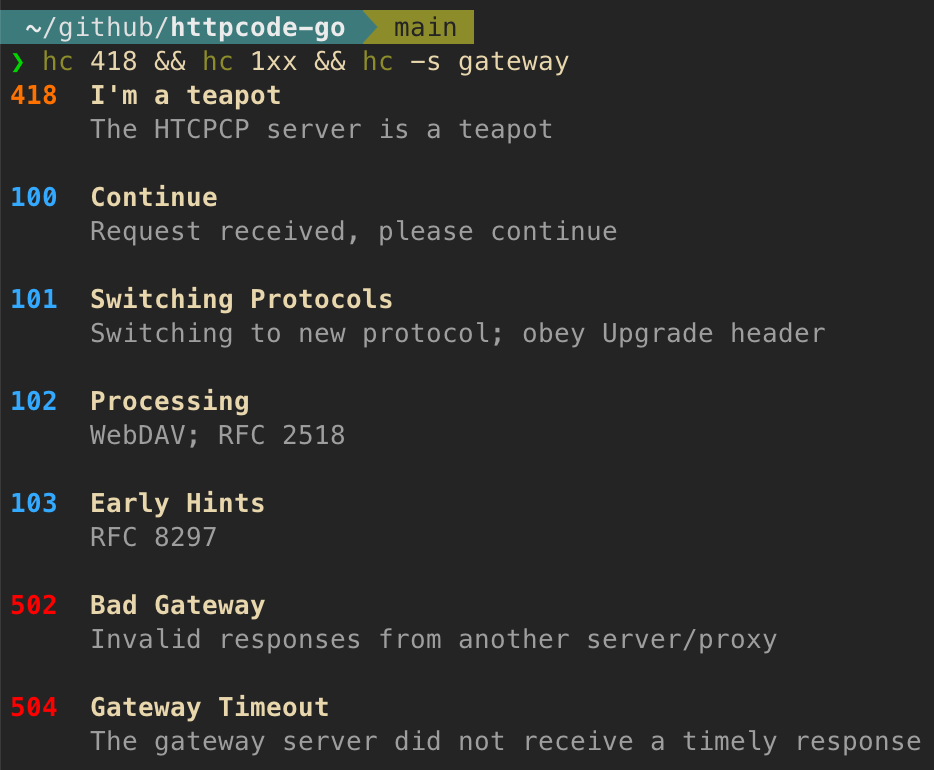
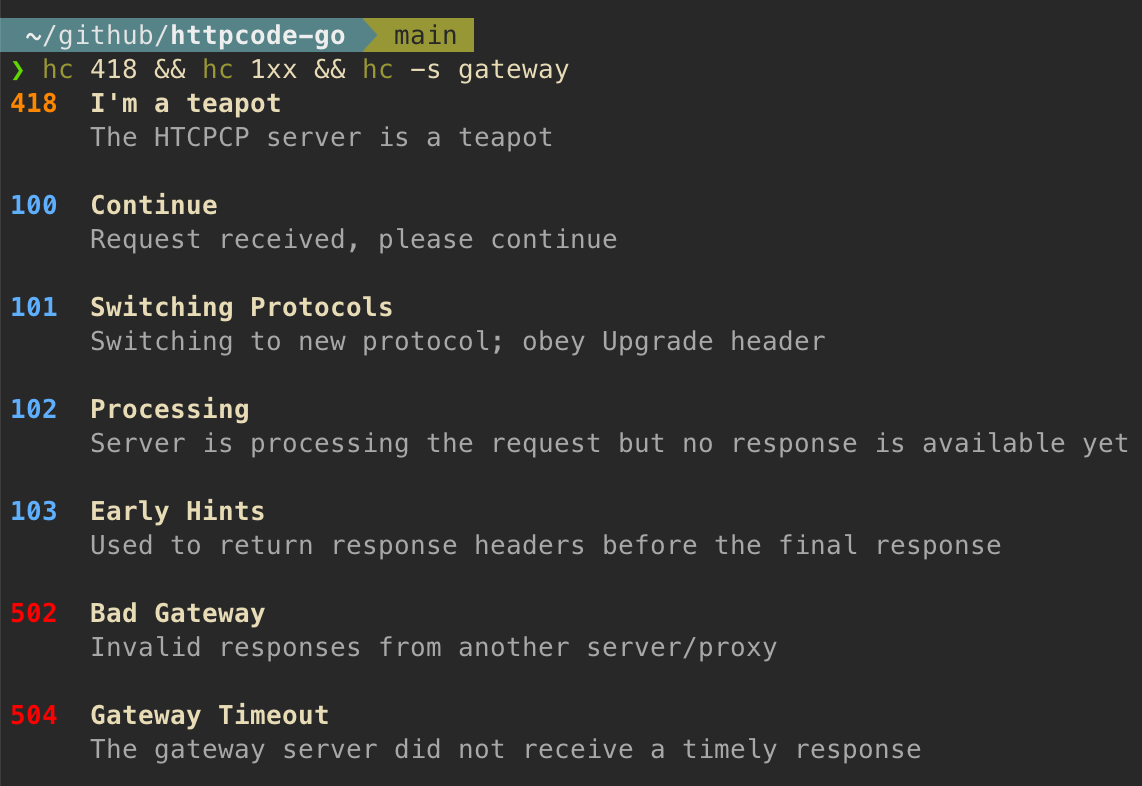
Update HTTP status codes and explanations per RFC 9110
- Rename 413, 414, 416, 422 messages per RFC 9110
- Fix 306 (unused), 424, 425 (Too Early per RFC 8470)
- Add missing 421 Misdirected Request
- Replace RFC/vendor-name-only explanations with descriptions

diff --git a/cmd/hc/main.go b/cmd/hc/main.go
@@ -22,19 +22,19 @@ type statusCode struct {
 var statusCodes = []statusCode{
 	{100, "Continue", "Request received, please continue"},
 	{101, "Switching Protocols", "Switching to new protocol; obey Upgrade header"},
-	{102, "Processing", "WebDAV; RFC 2518"},
-	{103, "Early Hints", "RFC 8297"},
+	{102, "Processing", "Server is processing the request but no response is available yet"},
+	{103, "Early Hints", "Used to return response headers before the final response"},
 
 	{200, "OK", "Request fulfilled, document follows"},
 	{201, "Created", "Document created, URL follows"},
 	{202, "Accepted", "Request accepted, processing continues off-line"},
-	{203, "Non-Authoritative Information", "Request fulfilled from cache"},
+	{203, "Non-Authoritative Information", "Response payload has been modified by a transforming proxy"},
 	{204, "No Content", "Request fulfilled, nothing follows"},
 	{205, "Reset Content", "Clear input form for further input"},
 	{206, "Partial Content", "Partial content follows"},
-	{207, "Multi-Status", "WebDAV; RFC 4918"},
-	{208, "Already Reported", "WebDAV; RFC 5842"},
-	{226, "IM Used", "RFC 3229"},
+	{207, "Multi-Status", "Response contains multiple status codes for multiple sub-requests"},
+	{208, "Already Reported", "Members already enumerated in a previous reply"},
+	{226, "IM Used", "Server fulfilled a GET request with instance-manipulations applied"},
 
 	{300, "Multiple Choices", "Object has several resources -- see URI list"},
 	{301, "Moved Permanently", "Object moved permanently -- see URI list"},
@@ -42,7 +42,7 @@ var statusCodes = []statusCode{
 	{303, "See Other", "Object moved -- see Method and URL list"},
 	{304, "Not Modified", "Document has not changed since given time"},
 	{305, "Use Proxy", "You must use proxy specified in Location to access this resource"},
-	{306, "Switch Proxy", "Subsequent requests should use the specified proxy"},
+	{306, "(Unused)", "Reserved; previously proposed as Switch Proxy"},
 	{307, "Temporary Redirect", "Object moved temporarily -- see URI list"},
 	{308, "Permanent Redirect", "Object moved permanently"},
 
@@ -55,37 +55,38 @@ var statusCodes = []statusCode{
 	{406, "Not Acceptable", "URI not available in preferred format"},
 	{407, "Proxy Authentication Required", "You must authenticate with this proxy before proceeding"},
 	{408, "Request Timeout", "Request timed out; try again later"},
-	{409, "Conflict", "Request conflict"},
+	{409, "Conflict", "Request conflicts with the current state of the target resource"},
 	{410, "Gone", "URI no longer exists and has been permanently removed"},
 	{411, "Length Required", "Client must specify Content-Length"},
 	{412, "Precondition Failed", "Precondition in headers is false"},
-	{413, "Payload Too Large", "Payload is too large"},
-	{414, "Request-URI Too Long", "URI is too long"},
+	{413, "Content Too Large", "Request content is larger than the server is willing or able to process"},
+	{414, "URI Too Long", "URI is too long"},
 	{415, "Unsupported Media Type", "Entity body in unsupported format"},
-	{416, "Requested Range Not Satisfiable", "Cannot satisfy request range"},
+	{416, "Range Not Satisfiable", "Cannot satisfy request range"},
 	{417, "Expectation Failed", "Expect condition could not be satisfied"},
 	{418, "I'm a teapot", "The HTCPCP server is a teapot"},
 	{419, "Authentication Timeout", "Previously valid authentication has expired"},
-	{420, "Method Failure / Enhance Your Calm", "Spring Framework / Twitter"},
-	{422, "Unprocessable Entity", "WebDAV; RFC 4918"},
-	{423, "Locked", "WebDAV; RFC 4918"},
-	{424, "Failed Dependency / Method Failure", "WebDAV; RFC 4918"},
-	{425, "Unordered Collection", "Internet draft"},
+	{420, "Method Failure / Enhance Your Calm", "Spring Framework: method failure; Twitter: rate limiting"},
+	{421, "Misdirected Request", "Request was directed at a server unable to produce a response"},
+	{422, "Unprocessable Content", "Server understands the content type but cannot process the contained instructions"},
+	{423, "Locked", "The resource is currently locked"},
+	{424, "Failed Dependency", "Request failed because it depended on another request that failed"},
+	{425, "Too Early", "Server is unwilling to risk processing a request that might be replayed"},
 	{426, "Upgrade Required", "Client should switch to a different protocol"},
-	{428, "Precondition Required", "RFC 6585"},
-	{429, "Too Many Requests", "RFC 6585"},
-	{431, "Request Header Fields Too Large", "RFC 6585"},
-	{440, "Login Timeout", "Microsoft"},
-	{444, "No Response", "Nginx"},
-	{449, "Retry With", "Microsoft"},
-	{450, "Blocked by Windows Parental Controls", "Microsoft"},
-	{451, "Unavailable For Legal Reasons", "RFC 7725"},
-	{494, "Request Header Too Large", "Nginx"},
-	{495, "Cert Error", "Nginx"},
-	{496, "No Cert", "Nginx"},
-	{497, "HTTP to HTTPS", "Nginx"},
-	{498, "Token expired/invalid", "Esri"},
-	{499, "Client Closed Request", "Nginx"},
+	{428, "Precondition Required", "Server requires the request to be conditional"},
+	{429, "Too Many Requests", "User has sent too many requests in a given amount of time"},
+	{431, "Request Header Fields Too Large", "Server refuses to process because header fields are too large"},
+	{440, "Login Timeout", "The client's session has expired and must log in again"},
+	{444, "No Response", "Server returned no information and closed the connection"},
+	{449, "Retry With", "Request should be retried after performing the appropriate action"},
+	{450, "Blocked by Windows Parental Controls", "Parental controls are blocking access to the requested resource"},
+	{451, "Unavailable For Legal Reasons", "Denied access due to a legal demand"},
+	{494, "Request Header Too Large", "Client sent too large of a request or header line"},
+	{495, "Cert Error", "Client certificate error prevented the connection"},
+	{496, "No Cert", "Client did not provide a required certificate"},
+	{497, "HTTP to HTTPS", "HTTP request was sent to an HTTPS port"},
+	{498, "Token expired/invalid", "Expired or invalid token in the request"},
+	{499, "Client Closed Request", "Client closed the connection before the server could respond"},
 
 	{500, "Internal Server Error", "Server got itself in trouble"},
 	{501, "Not Implemented", "Server does not support this operation"},
@@ -93,14 +94,14 @@ var statusCodes = []statusCode{
 	{503, "Service Unavailable", "The server cannot process the request due to a high load"},
 	{504, "Gateway Timeout", "The gateway server did not receive a timely response"},
 	{505, "HTTP Version Not Supported", "Cannot fulfill request"},
-	{506, "Variant Also Negotiates", "RFC 2295"},
-	{507, "Insufficient Storage", "WebDAV; RFC 4918"},
-	{508, "Loop Detected", "WebDAV; RFC 5842"},
-	{509, "Bandwidth Limit Exceeded", "Apache bw/limited extension"},
-	{510, "Not Extended", "RFC 2774"},
-	{511, "Network Authentication Required", "RFC 6585"},
-	{598, "Network read timeout error", "Unknown"},
-	{599, "Network connect timeout error", "Unknown"},
+	{506, "Variant Also Negotiates", "Server has an internal configuration error during content negotiation"},
+	{507, "Insufficient Storage", "Not enough storage to complete the request"},
+	{508, "Loop Detected", "Server detected an infinite loop while processing the request"},
+	{509, "Bandwidth Limit Exceeded", "Server has exceeded the bandwidth limit set by the administrator"},
+	{510, "Not Extended", "Further extensions to the request are required for the server to fulfill it"},
+	{511, "Network Authentication Required", "Client needs to authenticate to gain network access"},
+	{598, "Network read timeout error", "Informal; used by some HTTP proxies"},
+	{599, "Network connect timeout error", "Informal; used by some HTTP proxies"},
 }
 
 // Styles

diff --git a/cmd/hc/main_test.go b/cmd/hc/main_test.go
@@ -107,13 +107,13 @@ func TestMatchByTextInvalidRegex(t *testing.T) {
 }
 
 func TestMatchByTextSearchesMessageAndExplain(t *testing.T) {
-	// "WebDAV" appears in Explain, not Message
-	results, err := matchByText(statusCodes, "WebDAV")
+	// "replayed" appears in Explain for 425, not in Message
+	results, err := matchByText(statusCodes, "replayed")
 	if err != nil {
 		t.Fatal(err)
 	}
 	if len(results) == 0 {
-		t.Error("expected results for 'WebDAV' (appears in explanations)")
+		t.Error("expected results for 'replayed' (appears in explanations)")
 	}
 }
 

diff --git a/README.md b/README.md
@@ -2,7 +2,7 @@
 <p align="center">Look up HTTP status codes from the terminal</p>
 
 <p align="center">
-  <img src="demo.png" alt="hc demo" width="400">
+  <img src="demo.png" alt="hc demo" width="500">
 </p>
 
 <p align="center">
